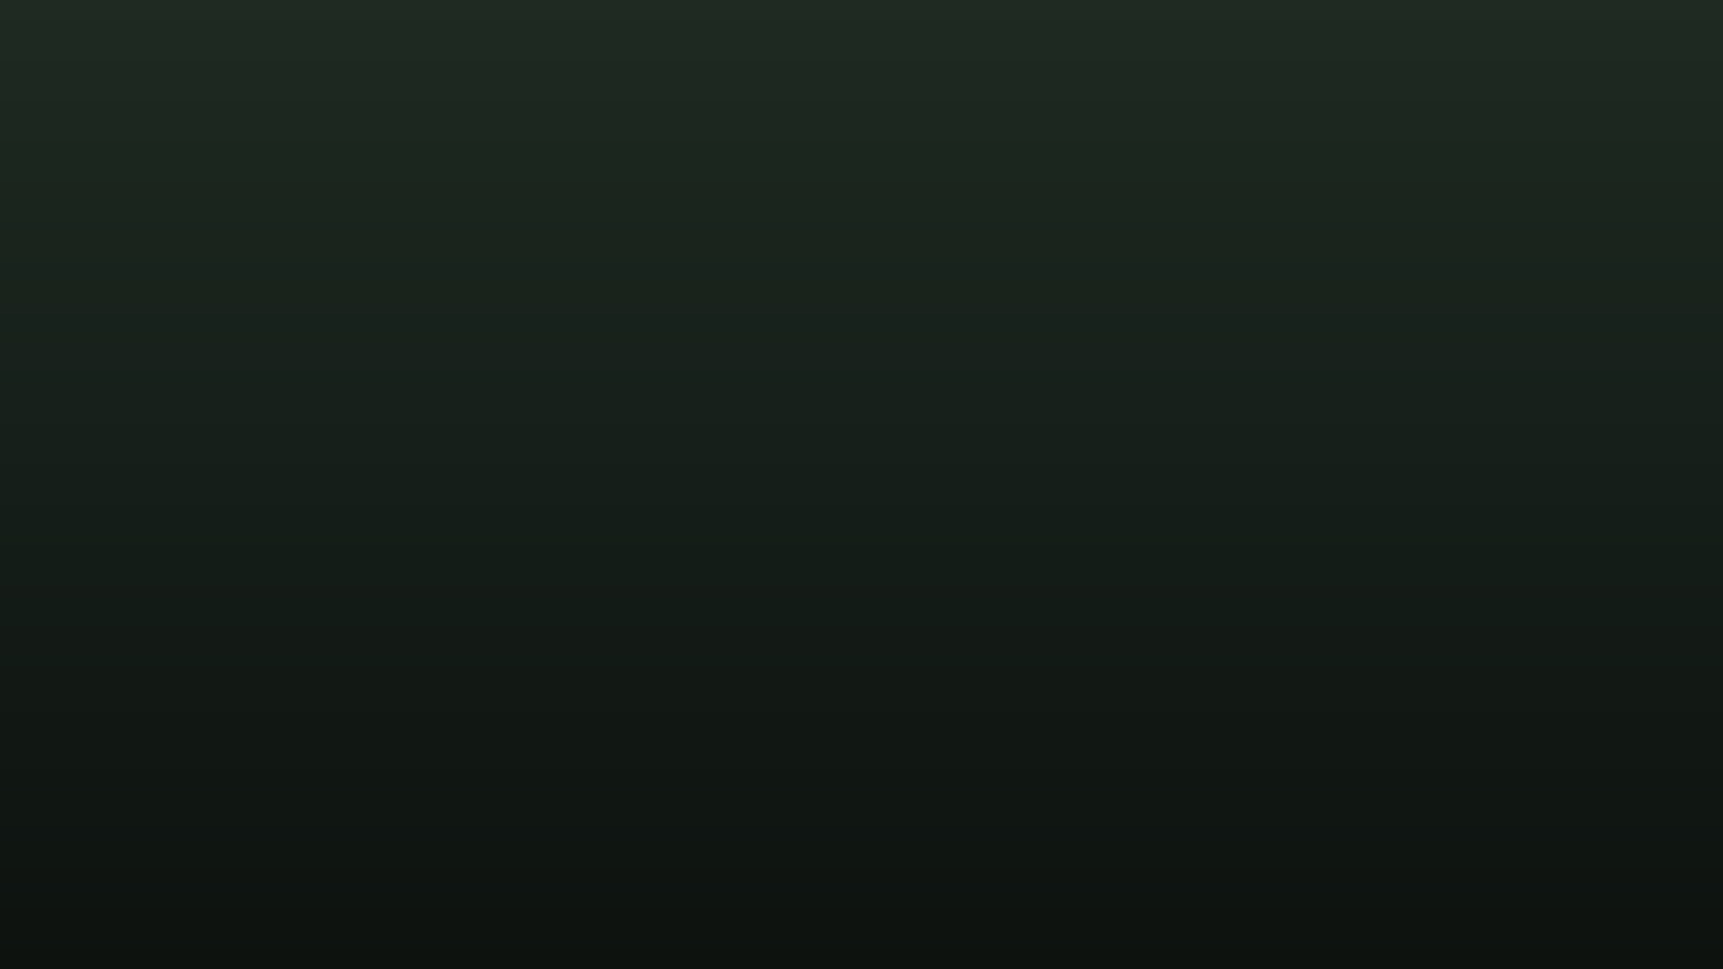
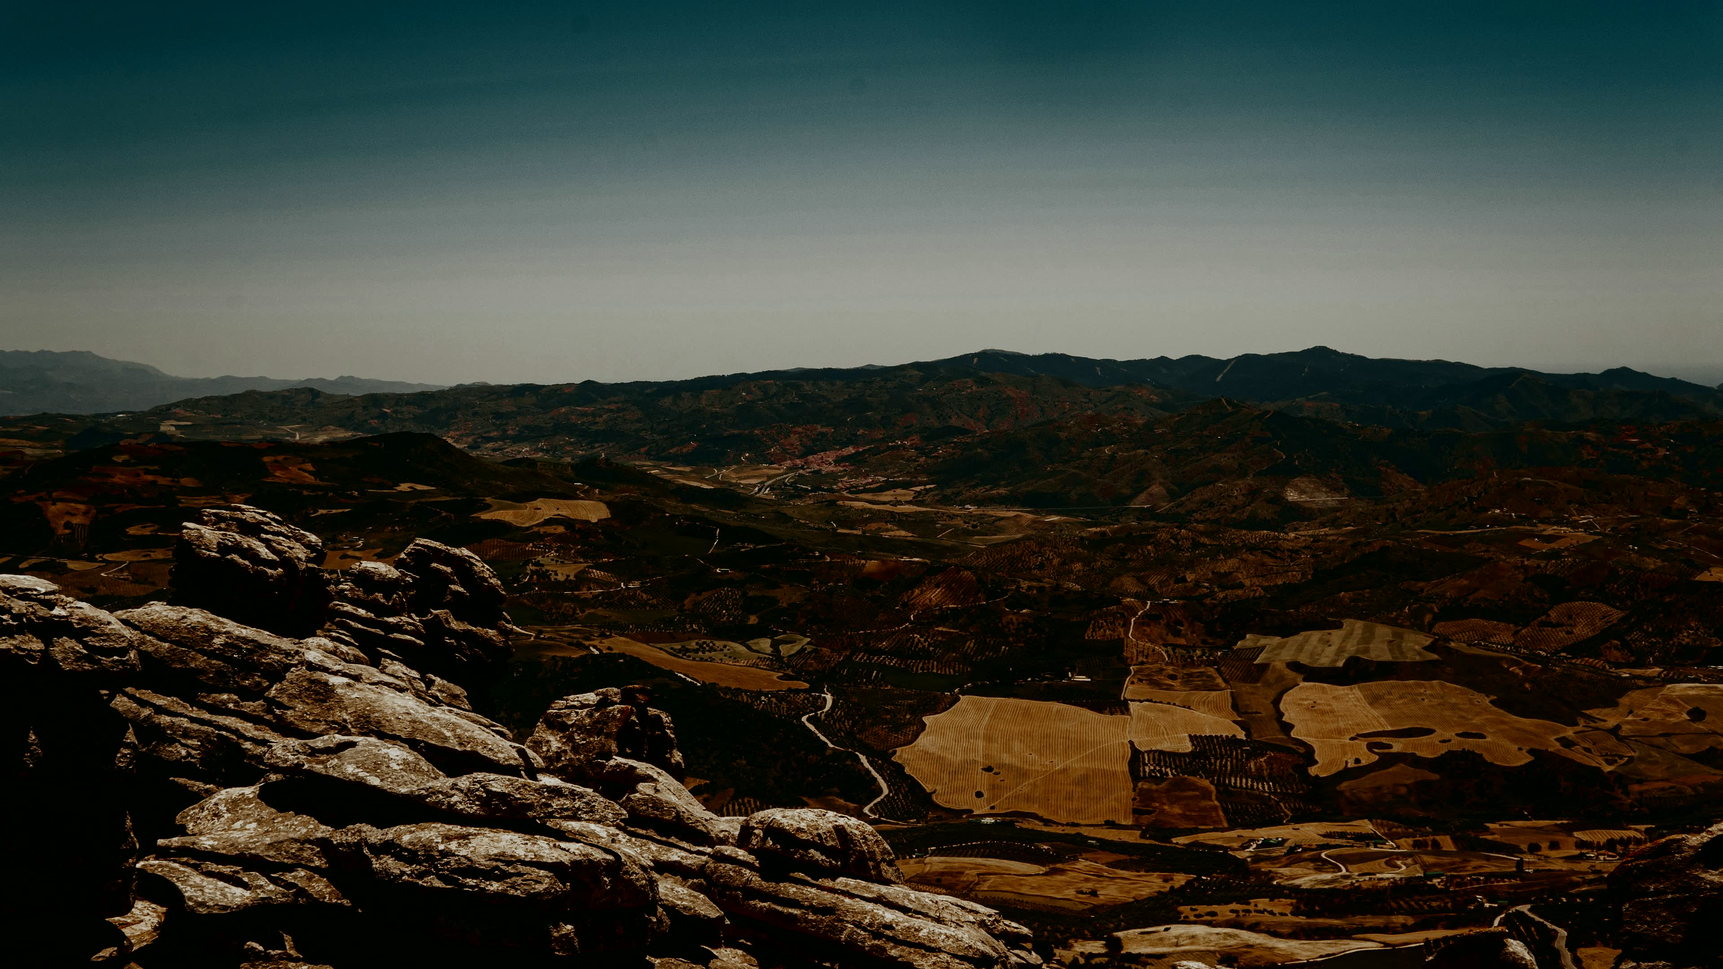
diario: `encina-branding` 0.1.7: fondos e identidad visual de verdad, y tres correcciones de método. Los degradados generados por `02-activos.sh` se sustituyen por cinco fotografías de Amanda Anusane (Unsplash), recortadas a 16:9 y reescaladas a 3840x2160. Se conservan los nombres `encina.jpg` y `en

diff --git a/DIARIO.md b/DIARIO.md
@@ -11,3 +11,4 @@
 - **2026-08-07** — Hay una TERCERA barrera y es del Snap, y al medirla se caen dos conclusiones que yo mismo habia escrito hoy. Se cerro la barrera 1 a mano sobre encina-snap-fabrica con un user.js de usar y tirar en el perfil, con las tres preferencias que AutoFirma deja en /etc/firefox/pref. Firefox las leyo de verdad, medido y no supuesto: aparecen las tres en prefs.js y handlers.json registra afirma con action 4, que es useSystemDefault. Y la firma siguio fallando, con AutoFirma sin arrancar, ni proceso java ni socket ni ~/.afirma, dos veces y mirado en pantalla. El motivo, con control positivo y negativo en la misma maquina: dentro del snap solo hay CUATRO ficheros .desktop y afirma.desktop no esta, /usr/bin/autofirma tampoco, y XDG_DATA_DIRS del proceso Firefox real solo tiene rutas del snap, ninguna del host, donde si estan el .desktop y el binario y donde xdg-mime devuelve afirma.desktop entre 94 entradas. O sea que Firefox dentro del Snap no VE el manejador, y cuando resuelve useSystemDefault no encuentra nada y no hace nada: sin dialogo, sin error, y sin una sola linea en el journal ni denegacion de AppArmor, comprobado. Y no es una prohibicion de snapd, porque xdg-open dentro del snap SI arranca AutoFirma: es un shim de 38 bytes que hace exec snapctl user-open y cruza la frontera pidiendoselo al host. Firefox no pasa por ahi; que use GIO en su espacio confinado es deduccion, lo medido es que el manejador es invisible y que nada arranca. Correccion primera: escribi que A2 ANADIO una barrera que en fabrica no estaba. Con B3 medida el balance se invierte. En el Snap hay un obstaculo que NINGUN deb puede tocar, porque no se anaden ficheros al XDG_DATA_DIRS de un snap desde fuera, y el Firefox nativo lo elimina de raiz a cambio de una barrera que si es reparable. A2 deja de ser preferencia y pasa a ser condicion necesaria, ahora medido. Correccion segunda: escribi que D13 tenia una excepcion medida, que en fabrica cerrar solo la barrera 1 haria funcionar la firma. Es FALSO y lo he medido cerrandola. Detras esta B3. La regla de D13 se sostiene en las dos maquinas; lo que cambia es el motivo, no la conclusion. Y de paso cae la suposicion fundacional del proyecto sobre el sandbox: la seccion 9 y AGENTS.md 1 llevaban desde el principio diciendo que el Snap rompe la firma porque aisla el almacen NSS, y el almacen NSS del Snap esta PERFECTO, AutoFirma le instala la CA correcta. Lo que el sandbox rompe es la visibilidad del manejador de protocolo. La conclusion de siempre era correcta y el mecanismo que se le atribuia no. Tres barreras y ninguna maquina tiene menos de dos: fabrica tiene B1 y B3, Encina tiene B1 y B2. El criterio de parada de B1 queda respondido y la respuesta es que NO, el problema no es menor; hubo un rato en que lo parecio, entre 4.3 y 4.4, y duro lo que tardo en medirse la tercera. Anadida C8 a AGENTS.md 6.4, que es la unica comprobacion cuyo FALLO no tiene remedio: si el navegador esta confinado ningun paquete puede arreglarlo, asi que la linea tiene que decir que hay que cambiar de navegador, que es lo que instala encina-firefox-native. Es el unico sitio de B1 donde el diagnostico apunta a una accion del usuario y no a una reparacion futura. Dos fallos propios de metodo esta tarde, los dos falsos negativos y los dos anotados: un pgrep con $ al final que dijo que Firefox no habia arrancado cuando si, porque el proceso llevaba la URL como argumento, que es la trampa 3 otra vez; y un control positivo de xdg-open desde fuera del snap que en realidad midio el proceso java que habia dejado el paso anterior, o sea que no probaba nada y lo tire. NO medido: que en Firefox NATIVO cerrar B1 y B2 haga salir la firma. Sigue sin existir ningun positivo de extremo a extremo, y encina-snap-fabrica ha demostrado que no puede darlo porque alli B3 es infranqueable; el positivo, si llega, sale de una maquina con Firefox nativo. La VM queda con residuo anotado: se retiro el user.js pero prefs.js y handlers.json conservan el esquema, y esta bien asi porque es la prueba viva de que B3 existe. Siguiente: cerrar B1 y B2 a mano en encina-autofirma-rota, que es la unica maquina donde puede salir el primer positivo del proyecto.
 - **2026-08-07** — Abierta B∥ en repositorio aparte. Creados los tres forks de ctt-gob-es (clienteafirma, jmulticard, clienteafirma-external) y jmorenobl/encina-autofirma, privado por D5, en ~/Projects/encina-autofirma. La decision de fondo, que es de Jorge y corrige lo que yo habia propuesto: los parches van al repositorio OFICIAL, porque es el unico sitio desde el que llegan a todo el mundo, y arreglar el repo de un tercero no lleva la correccion a ninguna parte. albfernandez no es la base sino una fuente de la que copiar lo ya resuelto. Yo habia propuesto partir de su repo y estaba mirando el ahorro de trabajo en vez del destino del arreglo. Comprobado contra el codigo en HEAD y no contra los README: upstream acepta PRs externas, 34 fusionadas y 25 abiertas, pero despacio, la #497 de UNA linea tardo 87 dias y las siete de seguridad de julio siguen abiertas, asi que no se espera a que las acepten. El empaquetado Debian esta DENTRO del repo oficial, con Recomends y el postinst sin set -e vivos en HEAD, v1.9 y v1.9.2, y no hay CLA ni CONTRIBUTING. Lo mejor del rato: hay TRES implementaciones independientes de la misma busqueda de perfiles y solo una esta arreglada. MozillaKeyStoreUtilities conoce .config/mozilla y lo documenta como Directorio de Firefox 147 y superiores; RestoreConfigFirefox y ConfiguratorFirefoxLinux no. O sea que la PR importante no pide una funcion nueva, pide terminar una empezada, citando el comentario de ellos mismos. Refutada de paso mi hipotesis de que la CA de ev2eu1nn la puso Restaurar instalacion: esa clase tampoco conoce la ruta XDG, y el origen sigue sin explicar. Y una trampa que decide si el paquete sirve: el if/else del configurador es EXCLUYENTE y el Snap va primero, asi que como R4 deja el Snap instalado en una maquina Encina, un parche que solo anada una rama else if seguira configurando el perfil del Snap y dejando el nativo sin la CA, que es el fallo de 4.2 intacto. Hay que recorrer todas las rutas. Respondida ademas la pregunta de si el deb corregido hace innecesario el Firefox nativo: NO, y esta medido, es el experimento de 4.4, cerramos la barrera 1 a mano con la 2 ausente de fabrica y la firma siguio fallando por B3, que ningun deb puede tocar. Las dos piezas son necesarias y ninguna basta sola. A2 no se reabre, se confirma, pero se le cae el motivo escrito: el Snap NO aisla el almacen NSS, eso era heredado y es falso, lo que hace es esconder el manejador de protocolo. Forma del fork decidida con numeros: AutoFirma se construye desde TRES repos, no uno, y el arbol pesa 580 MB frente a los 176 KB de encina-os, asi que nada de submodulo, serian tres y los arrastraria cada clonacion y cada trabajo de CI. albfernandez forkea los tres y guarda el empaquetado en un cuarto repo de 110 KB, con master a ahead_by=0: no parchea Java, todo lo suyo es el debian/, que sustituye al DEBIAN/ a mano de upstream. De ahi que las PRs de la errata y del postinst arreglen el deb oficial que se descarga la gente pero no desbloqueen Encina; las que lo hacen son las dos de Java. El empaquetado va en repo APARTE y no en debian-packages/ de encina-os, para que un fallo de Maven no tape el estado de A1 y A2 ni al reves. Siguiente, en el repo nuevo y antes de escribir ningun parche: cronometrar una compilacion completa de la cadena en arm64. Si tarda cuarenta minutos condiciona la CI y eso se sabe el primer dia. Es la leccion de A3 otra vez: que comando demuestra que esto es viable. Y sigue sin existir ningun positivo de extremo a extremo: el paquete estara terminado cuando salga una firma real en sede real sobre encina-autofirma-rota, mirada en pantalla.
 - **2026-08-08** — Replanteado el alcance del proyecto y reconfigurados todos los documentos. El cambio de fondo es de Jorge y corrige D3: el razonamiento de coste sigue en pie —partir de ubuntu-desktop-minimal y sumar cuesta mucho menos que construir una base— y lo que estaba mal era la conclusión, que confundía lo que se construye con lo que se entrega. Se construyen .deb y se entrega Encina OS. Cae su motivo escrito, «nadie reinstala el sistema para arreglar un trámite que vence hoy», porque describía a un usuario que ya tiene Ubuntu y ha dejado de ser el destinatario. Desaparece el marco Etapa A / Etapa B: la integración con la administración está hecha y medida desde el positivo del día 7, y lo que falta es entregarla. Hoja de ruta nueva por incrementos que dejan un sistema usable cada uno (D15), en arm64, que es lo único con qué medir (D9, que pasa de preferencia a límite de alcance declarado). Antes de eso se contrastó AGENTS.md §6 contra las seis barreras de §4.9 y salió que había que reespecificar B1 entera, no parchearla: la tabla tenía ocho filas y el texto decía siete; C4, C7 y el positivo por cálculo estaban anclados a /usr/lib/Autofirma, ruta que el paquete propio no usa —vive en /usr/share/autofirma—, así que sobre la máquina que firma habrían dado FALLO con toda la evidencia bien impresa; C8 no ha podido dar su verde nunca porque ningún snap ve /usr/share/applications del anfitrión, y §6.5 dice que sin verde no se publica; y faltaban B4 y B6 enteras. De ahí salió que doctor no había que arreglarlo sino suprimirlo: existía para explicar por qué el .deb oficial rompía el sistema en silencio, y Encina OS ya no instala ese .deb. Un diagnóstico cuya respuesta es siempre la misma no es un diagnóstico. Lo que sobrevive, «¿sigue intacta esta instalación?», es verificación de la construcción en CI y su código ya existe: verificar-deb.sh. Segunda fase suprimida por medirla antes de abrirla, después de A3. Corregido de paso un error mío de la conversación: NO, el .deb corregido no hace que la firma funcione con Snap. B3 lo impide, Firefox dentro del confinamiento no ve afirma.desktop ni /usr/bin/autofirma, y ningún .deb lo toca; encina-firefox-native no es un accesorio sino la única pieza que la cierra. Y quitar el Snap en la imagen cierra B3 y B4 a la vez, esto último medido con control en M6. Auditadas §4.1, §4.3 y §4.4 por la dependencia de la sede de la DGSFP: todo lo estático sobrevive y se caen las inferencias que colgaban de las tres pruebas de firma, en particular «cada barrera basta por sí sola» y el «medido: es falso» de la excepción de D13, que se sostiene por deducción desde el XDG_DATA_DIRS y no por aquella prueba. Documentos: MEDICIONES.md nuevo con §4.1–§4.9, §A3 y las trampas literales, porque son salidas de comandos y reproducirlas cuesta sesiones de VM; ENCINA-OS.md de 1327 a 333 líneas; AGENTS.md §6 pasa a encina-meta con su definición de terminado y R10 como primera trampa; README reescrito; RECETA-A1 borrado. La §6.1 de encina-locale-es pasa a §A3 para no colisionar con la §6.1 nueva de ENCINA-OS.md, que son dos secciones distintas y las dos se citan. D5 se parte en dos: el repositorio público ya, la imagen cuando exista una arquitectura que otros puedan arrancar. D13 se enmienda sin cambiar su regla, se ha cumplido y no violado. D14 nueva, el fork es un ingrediente con condición de salida medible. Identidad visual incorporada. El primer banner llevaba el logo de FNMT/DNIe, un escudo ministerial y el icono de AutoFirma, con el lema «el sistema operativo para la Administración Pública Española»: el conjunto se leía como producto oficial y no lo es. Regenerado sin marcas y con lema nuevo, «Ubuntu con la firma electrónica española lista de fábrica». Le quedaban 147 px de banda negra pese a prohibírselo el prompt; medidos con ffmpeg y control —identidad.png da 0 px por el mismo método— y recortados. Fondos de Unsplash renombrados por lo que se ve en ellos, no por el sitio, que sería adivinar: caliza, sierra, amapolas, olivar, farallon. Los originales, 18 MB, van al .gitignore: al repositorio entran redimensionados dentro del src/ del paquete, que es la cuenta de §4.8 otra vez. La Unsplash License es permisiva pero NO es una licencia libre al uso, así que va como párrafo propio en DEP-5, y la sección de licencia del README deja de afirmar que no hay ningún activo de terceros, que con los fondos dentro sería falso. Repositorio hecho público tras escanear árbol e historial: ni secretos ni DNI, un solo autor. Aviso anotado: encina-autofirma/MEDICIONES.md línea 713 sí lleva nombre completo y DNI, y D5 obliga a publicar ese repositorio el día que se publique la imagen. Siguiente: E1, encina-meta, y antes de abrir E2 la pregunta de A3, qué comando demuestra que esto es viable, sobre un autoinstall.yaml mínimo en la ISO oficial arm64.
+- **2026-08-08** — `encina-branding` 0.1.7: fondos e identidad visual de verdad, y tres correcciones de método. Los degradados generados por `02-activos.sh` se sustituyen por cinco fotografías de Amanda Anusane (Unsplash), recortadas a 16:9 y reescaladas a 3840x2160. Se conservan los nombres `encina.jpg` y `encina-dark.jpg` a propósito: los llevan escritos a mano `02-activos.sh` y `03-construir.sh`, así que renombrarlos habría roto las dos cosas en silencio, y manteniéndolos el `gschema.override` no se toca y lo que costó cuatro versiones validar en A1 queda intacto. `encina-dark.jpg` es la MISMA foto atenuada, no otra: alternar tema no cambia de paisaje. La gamma se eligió barriendo valores y midiendo luminancia, no a ojo — 0,55 daba 81,8, tan claro como `farallon` e inservible para modo oscuro; 0,35 da 53,8. Para el tamaño, la pregunta era bajar resolución o bajar calidad, y la respuesta salió contraintuitiva y medida con SSIM: 3840x2160 a q:v 6 da 0,9498 y 2560x1440 visto en un 4K da 0,9295, así que daña menos gastar calidad que gastar píxeles, y la resolución no se recupera. El logotipo se rehizo entero: era una hoja suelta y no se parecía a la identidad; ahora es la encina de nodos del banner, con la copa como racimo de círculos solapados del mismo color —que se leen como una silueta única y siguen siendo reconocibles a 16 px cuando la malla ya no se distingue—. Renderizado y MIRADO a 512, 48 y 24 px antes de darlo por bueno, y corregido dos veces: la primera versión parecía un mástil y la segunda una torre de alta tensión. `logo.png` se regeneró con `rsvg-convert` a mano y NO con `02-activos.sh --forzar`, que habría devuelto los degradados; ese riesgo es nuevo y está anotado en `SCRIPTS.md`. Verificado en `encina-dev` —identificada por huella antes de tocarla, que las seis VMs comparten IP y hostname—: 25+10+11 comprobaciones, 0 fallos, `lintian` limpio, y la casilla `[OJOS]` mirada por Jorge, fondo correcto en claro y en oscuro. `debian/copyright` declara la Unsplash License con su texto traído de la fuente, no de memoria, y avisa de que es permisiva pero no es libre al uso ni cumple las DFSG. Y la corrección que más vale del día: `encina-autofirma-firma`, la VM del primer positivo, NO EXISTE. Se destruyó a propósito porque contenía el certificado personal de la FNMT, que es lo correcto. Eso invalida una forma de validar que yo mismo había escrito hoy en tres sitios, y los tres quedan corregidos: no hay estado bueno conservable ni lo habrá, ninguna casilla puede decir «compruébalo contra la máquina buena», todo salvo la firma final se verifica con certificado de prueba como hizo M6, y la firma real es un experimento manual de un solo uso sobre una VM que se destruye después. Está en `ENCINA-OS.md` §9.1. Siguiente: E1, `encina-meta`.

diff --git a/ENCINA-OS.md b/ENCINA-OS.md
@@ -291,26 +291,49 @@ Tres matices:
 
 ## 9. Las VMs de UTM
 
-`ssh jorge@192.168.64.3`, `sudo` sin contraseña. **Las cinco tienen el mismo
+`ssh jorge@192.168.64.3`, `sudo` sin contraseña. **Las seis tienen el mismo
 hostname (`encina-dev`) y la misma IP**, incluidas las clonadas: el hostname no
 distingue nada. Para saber en cuál estás, lo que funciona es «paquetes
 instalados + versión del Snap de Firefox + qué perfiles existen».
 
-**No arrancar dos a la vez.**
+**No arrancar dos a la vez.** Se listan y se arrancan con `utmctl list` y
+`utmctl start <nombre>`, sin abrir la interfaz de UTM.
 
-| VM | Qué es | Bajo el enfoque nuevo |
+| VM | Qué es | Estado |
 |---|---|---|
-| `encina-autofirma-firma` | Donde salió la firma real, con certificado FNMT, en VALIDe | **La más valiosa que existe. Único estado bueno conocido.** No tocarla |
+| `encina-dev` | Banco de A1, con el usuario `prueba`. Snap 153.0.3 con perfil, sin Firefox nativo | **En uso.** Aquí se verificó `encina-branding` 0.1.7 |
 | `encina-limpia-respaldo` | Ubuntu 24.04.4 arm64 de fábrica, sin nada. Firefox nunca abierto | Se queda: línea base virgen, y de ella se clona |
 | `encina-autofirma-rota` | AutoFirma 1.9 **oficial** sobre Firefox nativo, con la cadena causal medida | Se queda: es la mitad roja de las mediciones |
 | `encina-dev-firefox` | «Hoy en el mismo estado que la anterior» | **Redundante.** Candidata a borrar |
 | `encina-snap-fabrica` | Ubuntu de fábrica + Snap. Caso positivo de la CA correcta y caso de prueba de B3 | Sus mediciones están grabadas y la imagen no llevará Snap. **Candidata** |
 | `encina-A2-verificada` | Red de seguridad de A2 | A2 está en git y en CI verde. **Candidata** |
-| `encina-dev` | Banco de A1, con el usuario `prueba` | A1 está en git y en CI verde. **Candidata** |
 
-**Antes de borrar ninguna:** arranca `encina-autofirma-firma` y confirma que
-sigue firmando. Es la única irreemplazable y se creó durante B∥, así que no
-estaba documentada hasta hoy.
+### 9.1 No hay estado bueno conservable, y es a propósito
+
+`encina-autofirma-firma` —la VM donde salió el primer positivo de extremo a
+extremo el 2026-08-07— **ya no existe. Se destruyó deliberadamente porque
+contenía el certificado personal de la FNMT**, y una máquina con un certificado
+de firma real dentro no se guarda ni se clona. Es la decisión correcta y no se
+revisa.
+
+**La consecuencia hay que tenerla presente cada vez que se escriba una
+definición de terminado**, porque es fácil escribir una casilla imposible:
+
+- **El positivo sigue siendo real.** Está medido y registrado con sus salidas
+  (`MEDICIONES.md` §4.9, y M11 del repositorio `encina-autofirma`). Lo que no
+  hay es una máquina contra la que volver a contrastar.
+- **Todo lo que no sea la firma final se verifica con un certificado de
+  prueba**, sin tocar el personal: es lo que ya se hizo en M6 con
+  `CERT-PRUEBA-ENCINA`, y lo que hacen las 21 comprobaciones de
+  `verificar-deb.sh` en contenedor. Cubre las seis barreras salvo el «¿la sede
+  lo acepta?».
+- **La firma real es, por construcción, manual y efímera.** Se clona una VM, se
+  mete el certificado, se firma en `valide.redsara.es`, se mira en pantalla, se
+  anota, y **se destruye la VM**. No es un banco de pruebas: es un experimento
+  de un solo uso.
+- **Ninguna casilla puede decir «compruébalo contra el estado bueno».** No lo
+  hay ni lo habrá. Puede decir «repite el experimento efímero», que es otra cosa
+  y cuesta más.
 
 ---
 

diff --git a/AGENTS.md b/AGENTS.md
@@ -547,7 +547,11 @@ Ejecutar en VM, sobre una Ubuntu 24.04 arm64 limpia clonada de
 - [ ] Una entrada de matriz nueva en `build.yml`, verde
 - [ ] **[OJOS] La casilla que decide:** sobre esa máquina, con
       `encina-meta` instalado y **nada tocado a mano**, sale una firma en
-      `valide.redsara.es` con certificado real. Mirada en pantalla
+      `valide.redsara.es` con certificado real. Mirada en pantalla.
+      **Es un experimento de un solo uso:** se hace sobre una VM clonada para
+      la ocasión y **esa VM se destruye después**, porque lleva dentro un
+      certificado de firma personal (`ENCINA-OS.md` §9.1). Todo lo demás de
+      esta lista se comprueba sin él
 
 **La última casilla es la única que importa de verdad**, y es la única que
 ningún script puede dar por buena. Las otras siete pueden salir todas verdes con
@@ -658,9 +662,15 @@ Si una tarea parece requerir algo de esta lista, **detente y pregunta**.
   `scripts/`, para la CI y para la receta de imagen. Las siete trampas de
   `SCRIPTS.md` son siete formas de que esto salga caro, y las siete dan **falsos
   negativos o comprobaciones que no comprueban**.
-- **Ahora existe un estado bueno conocido**, que antes no había: la VM
-  `encina-autofirma-firma`, donde salió una firma real. Cuando dudes de si una
-  comprobación discrimina, la respuesta es ejecutarla allí y ver si sale verde.
+- **No existe ninguna máquina donde la firma funcione, y no va a existir.** La
+  VM del primer positivo se destruyó a propósito porque contenía un certificado
+  personal de la FNMT (`ENCINA-OS.md` §9.1). El positivo está medido y
+  registrado; lo que no hay es un estado bueno contra el que contrastar. **No
+  escribas nunca una comprobación cuya validación sea «ejecútala en la máquina
+  buena».** Lo que sí puedes hacer: verificar todo menos la firma final con un
+  **certificado de prueba** —es lo que hizo M6 con `CERT-PRUEBA-ENCINA`— y dejar
+  la firma real como experimento manual de un solo uso, en una VM que se
+  destruye después.
 - **`git` a través del hook de `rtk` devuelve commits que no son.** Se le pide un
   hash y contesta otro, con su asunto, sin fallar ni avisar. Cualquier medición
   sobre git va con `/usr/bin/git` o con `rtk proxy` (`MEDICIONES.md` §4.9d).

diff --git a/MEDICIONES.md b/MEDICIONES.md
@@ -49,7 +49,7 @@ Tres cosas se repiten en todo el registro y son lo que le da valor:
 | §4.6 | Estrategia de fork | Ejecutada. Histórico |
 | §4.7 | ¿El `.deb` corregido hace innecesario el Firefox nativo? | **Sí, y es la sección más importante para el producto de hoy.** La respuesta es no |
 | §4.8 | Forma del fork: tres repositorios | Ejecutada. Histórico |
-| §4.9 | El primer positivo de extremo a extremo, y las seis barreras | Sí. Es el estado bueno conocido |
+| §4.9 | El primer positivo de extremo a extremo, y las seis barreras | Sí. **Pero la VM donde ocurrió ya no existe**: se destruyó porque contenía un certificado personal de la FNMT (`ENCINA-OS.md` §9.1). El positivo está medido; el estado bueno no es conservable |
 | A3 | Por qué se suprimió `encina-locale-es` | Sí, y de forma permanente. Se llamaba «§6.1» hasta el 2026-08-08 |
 | §9 | Trampas conocidas | Sí, entera. Es método y aplica igual al trabajo de imagen |
 

diff --git a/SCRIPTS.md b/SCRIPTS.md
@@ -92,6 +92,14 @@ Todos son idempotentes: ejecútalos las veces que quieras. `02-activos.sh` no
 sobrescribe activos existentes salvo con `--forzar`, para que el día que pongas
 el logotipo de verdad no te lo machaque un script.
 
+**Desde el 2026-08-08, `02-activos.sh --forzar` es destructivo.** Ese día llegó:
+`encina.jpg` y `encina-dark.jpg` ya no son los degradados que generaba el script,
+son fotografías. El script sigue sabiendo fabricar el degradado, así que
+`--forzar` **las sustituiría por él sin preguntar** y las dos comprobaciones que
+hace después —que son JPEG y que difieren entre sí— saldrían en verde igualmente.
+Sin `--forzar` las omite, que es lo correcto. Si alguna vez hay que regenerarlas,
+se rehacen desde `assets/wallpaper/`, no con el script.
+
 ## Ubicación del repositorio
 
 Por defecto `~/encina`. Si lo tienes en otro sitio:
